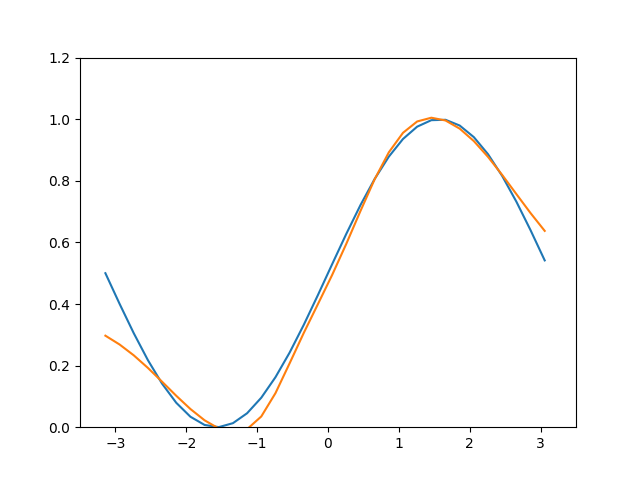
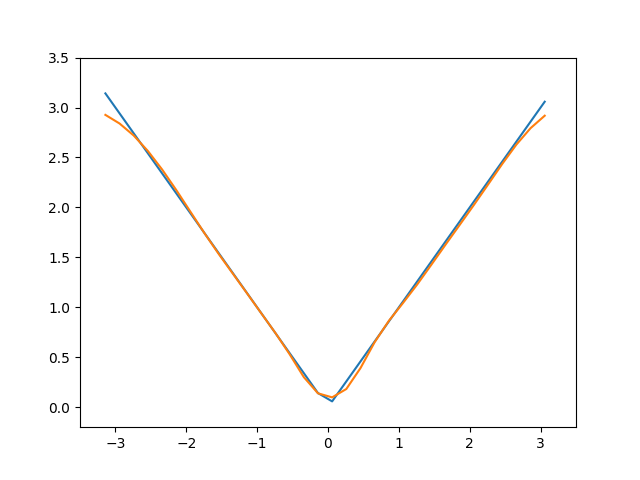
more stuff

diff --git a/base.py b/base.py
@@ -72,8 +72,12 @@ class NN():
 			result[0][i] = max([0,X[0][i]])
 		return result
 
-	def relu2(self, x):
-		retult = x
+	def relu2(self, X):
+		result = X
+		return result
+
+	def lrelu(self, X):
+		result = abs(X)
 		return result
 
 	'''
@@ -92,6 +96,8 @@ class NN():
 				a = self.relu(z)
 			elif(self.func=='reul2'):
 				a = self.relu2(z)
+			elif(self.func=='lrelu'):
+				a = self.lrelu(z)
 			else:
 				a = self.sigmoid(z)
 		return a
@@ -116,6 +122,8 @@ class NN():
 				A[i+1] = self.relu(Z[i])
 			elif(self.func=='relu2'):
 				A[i+1] = self.relu2(Z[i])
+			elif(self.func=='lrelu'):
+				A[i+1] = self.lrelu(Z[i])
 			else:
 				A[i+1] = self.sigmoid(Z[i])
 		D = [0]*(len(self.W)+1)
@@ -130,6 +138,8 @@ class NN():
 				D[i+1] = np.transpose(np.dot(self.W[-i-1], np.transpose(D[i]))) * (np.sign(A[-2-i])+1)/2
 			elif (self.func=='relu2'):
 				D[i+1] = np.transpose(np.dot(self.W[-i-1], np.transpose(D[i])))
+			elif (self.func=='lrelu'):
+				D[i+1] = np.transpose(np.dot(self.W[-i-1], np.transpose(D[i]))) * 1 if A[-2-i]>=0 else 0.01
 			self.W[-1-i] = self.W[-1-i] - n * np.dot(np.transpose(A[-2-i]), D[i])
 			self.B[-1-i] = self.B[-1-i] - n * D[i]
 

diff --git a/test_NN.py b/test_NN.py
@@ -39,21 +39,25 @@ Test case for function approximator
 '''
 DO = True
 if(DO==True):
-	sinNet = base.NN(1,1,[8], func='relu2')
+	sinNet = base.NN(1,1,[20], func='lrelu')
 
 	X = np.arange(-math.pi,math.pi, 0.2)
-	Y = (np.sin(X))/2.0+0.5
+	# Y = np.sin(X)
+	Y = abs(X)
 
 	num_iter = 2000
+	num_epoch = 10
 	sample_x = np.zeros(num_iter)
 	sample_y = np.zeros(num_iter)
 	
 	# print(sinNet.W)
 	for i in range(num_iter):
 		x = np.random.rand()*math.pi*2.0-math.pi
-		y = (np.sin(x))/2.0+0.5
+		# y = np.sin(x)
+		y = abs(x)
 		if (x!=0 and y!=0):
-			sinNet.train(x,y, 0.5)
+			for k in range(num_epoch):
+				sinNet.train(x,y, 0.2)
 			sample_x[i] = x
 			sample_y[i] = y
 
@@ -69,7 +73,8 @@ if(DO==True):
 			ax.cla()
 			# ax.plot(sample_x, sample_y, 'o', X, Y, X, Yhat)
 			ax.plot(X, Y, X, Yhat)
-			ax.axis([-3.5, 3.5, 0, 1.2])
+			# ax.axis([-3.5, 3.5, -1.2, 1.2])
+			ax.axis([-3.5, 3.5, -0.2, 3.5])
 			f.canvas.draw()
 			f.savefig(str(i)+" iterations.png")
 
